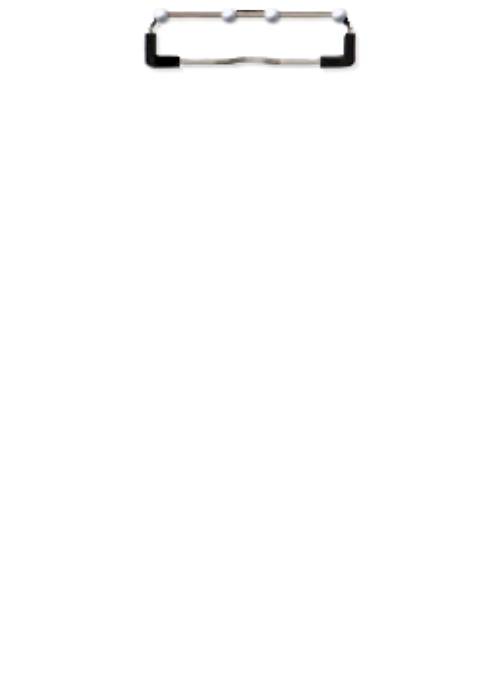
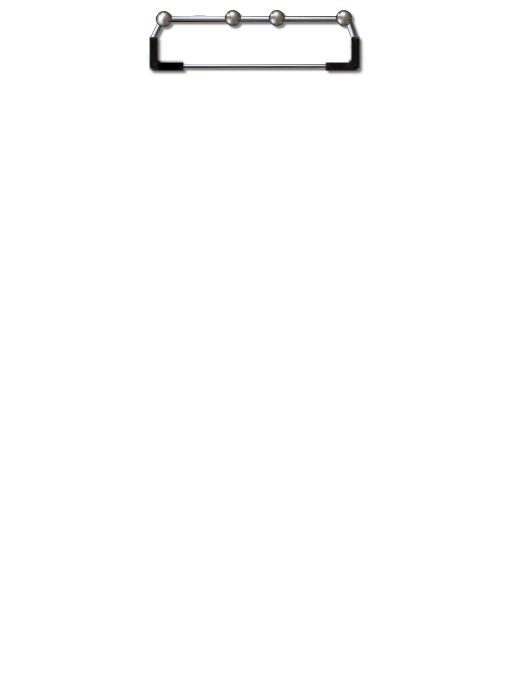
ADDED clipboard images

Changed region(s): [[0.27, 0.0, 0.72, 0.1246]]

diff --git a/main.py b/main.py
@@ -24,7 +24,7 @@ def main():
         print('Windows detected +5 to bonus rolls')
 
     # Load images
-    back = tk.PhotoImage(file='assets/img/clipboard/clipboardx2.png')
+    back = tk.PhotoImage(file='assets/img/clipboard/clipboard.png')
     paper = tk.PhotoImage(file='assets/img/clipboard/paper.png')
     clip = tk.PhotoImage(file='assets/img/clipboard/metal_clip.png')
 
@@ -42,7 +42,7 @@ def main():
     center_y = back.height() // 2
 
     root_canvas.create_image(center_x, center_y, image=back)
-    root_canvas.create_image(center_x, center_y, image=paper)
+    # root_canvas.create_image(center_x, center_y, image=paper)
     root_canvas.create_image(center_x, center_y, image=clip)
 
     movement_handler = MovementHandlerWithInvertedBounds(
